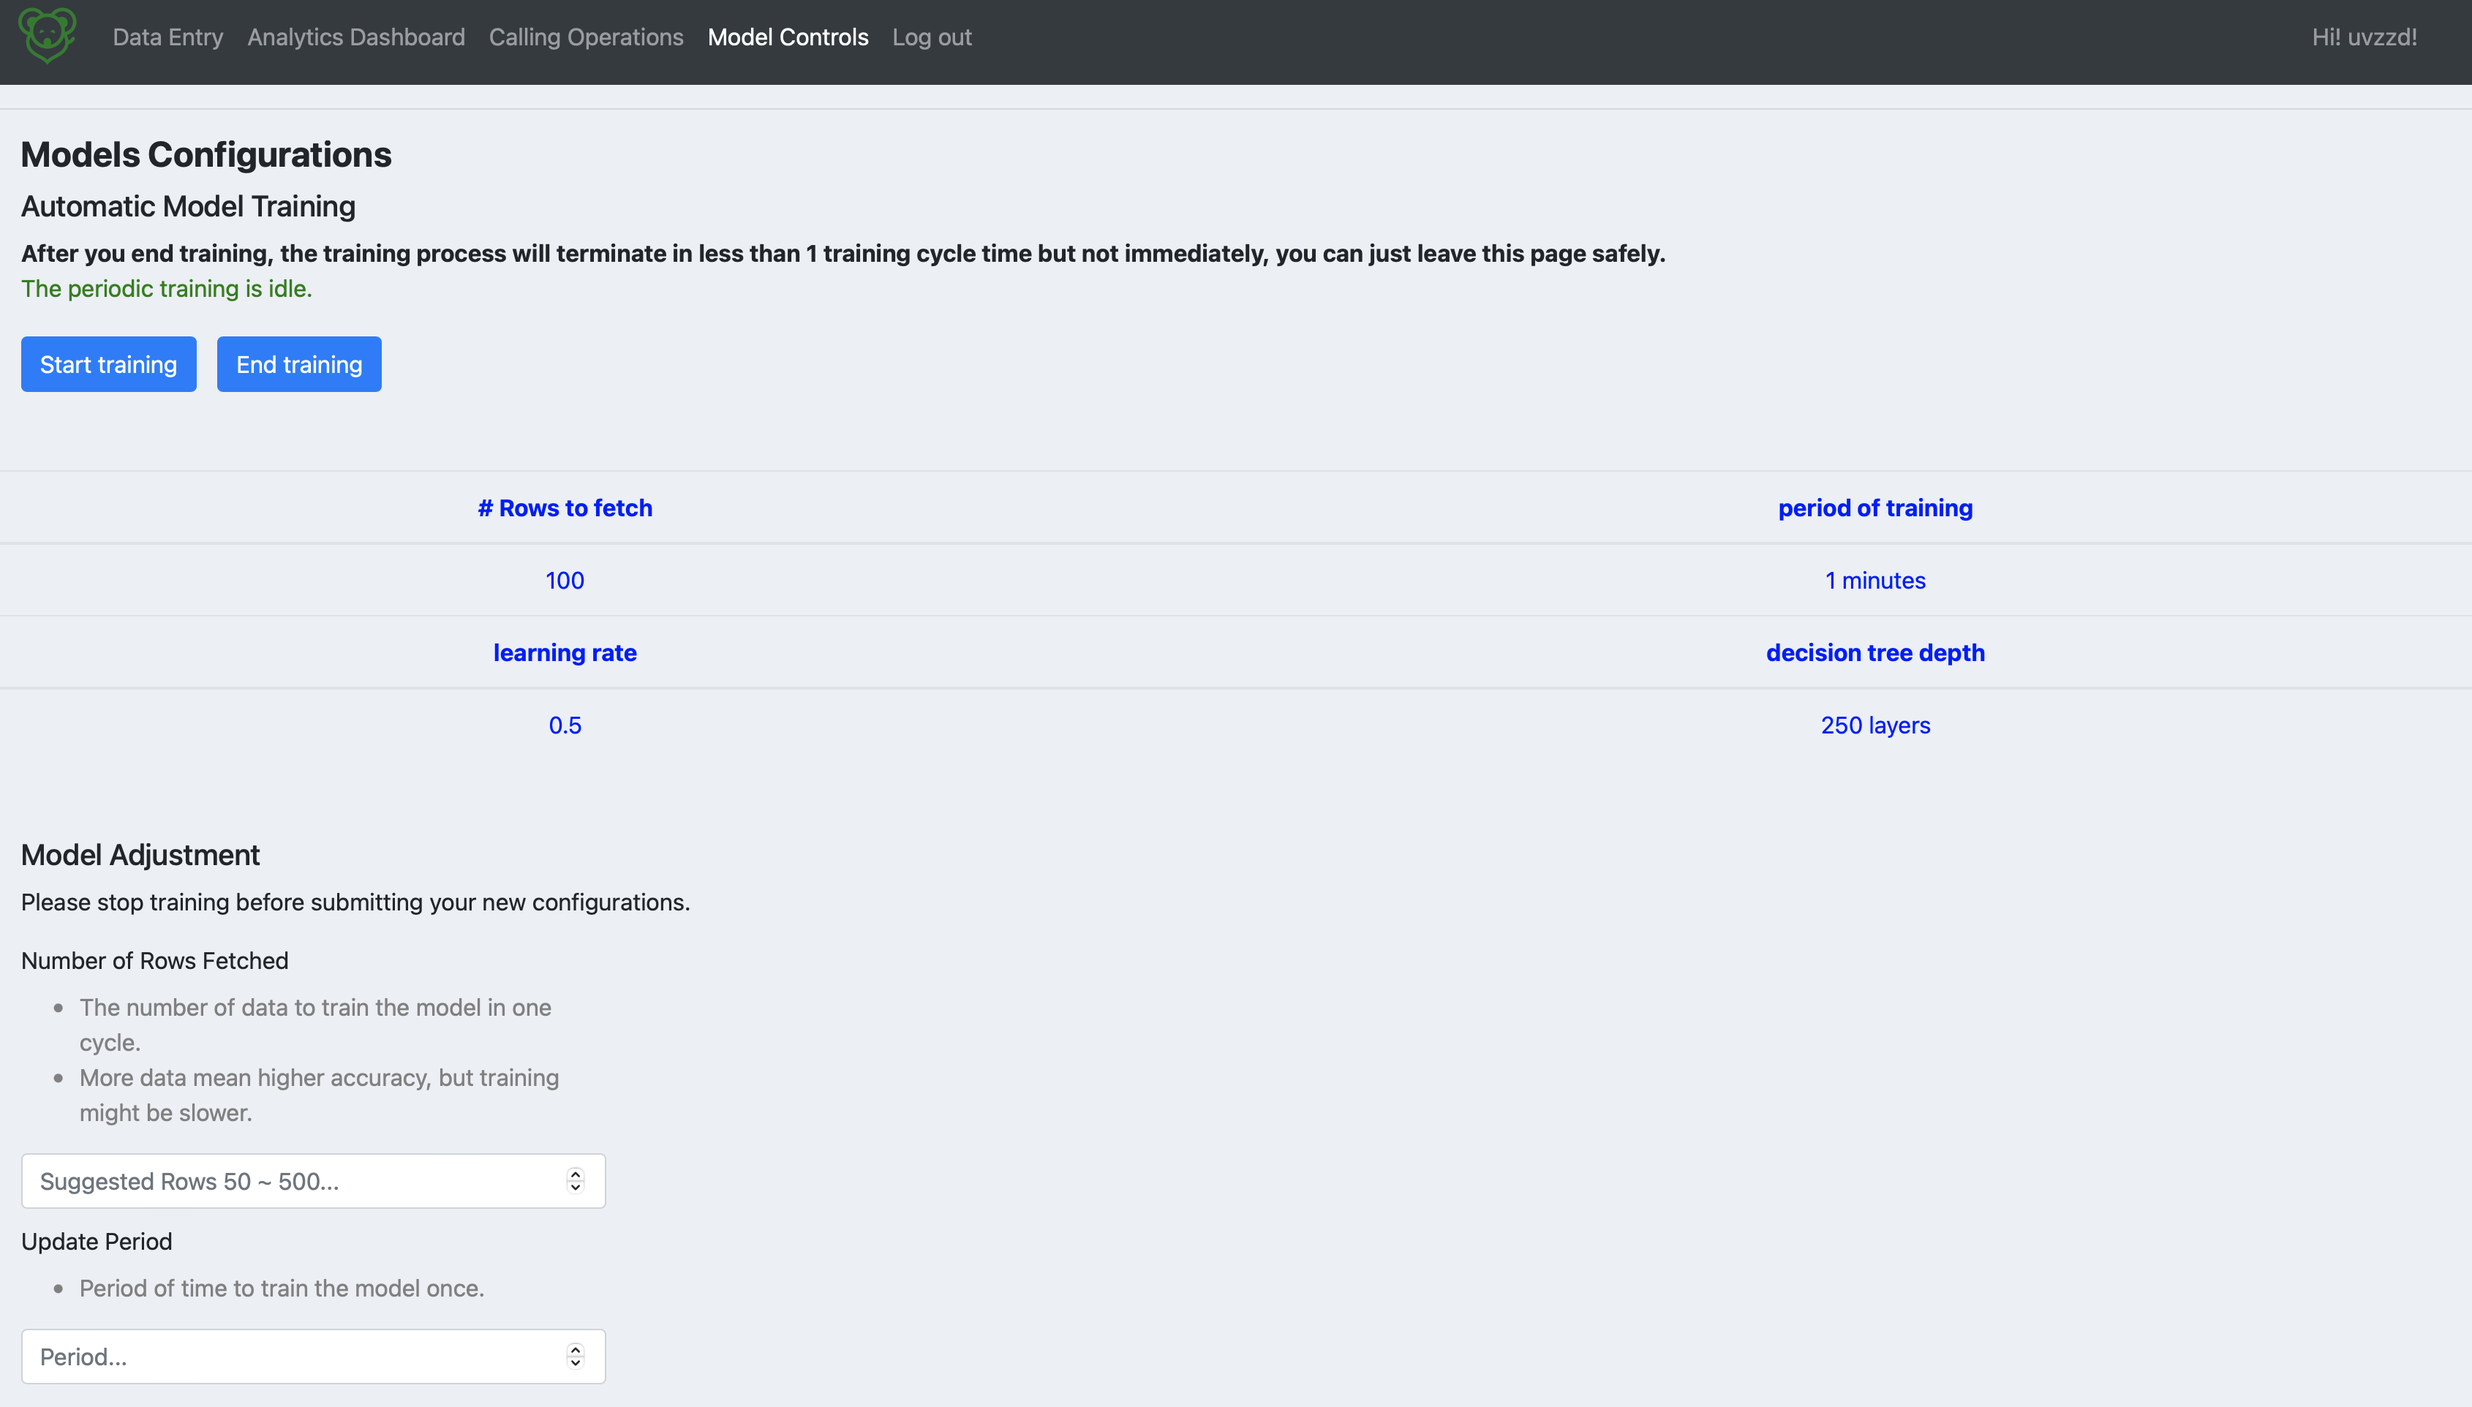
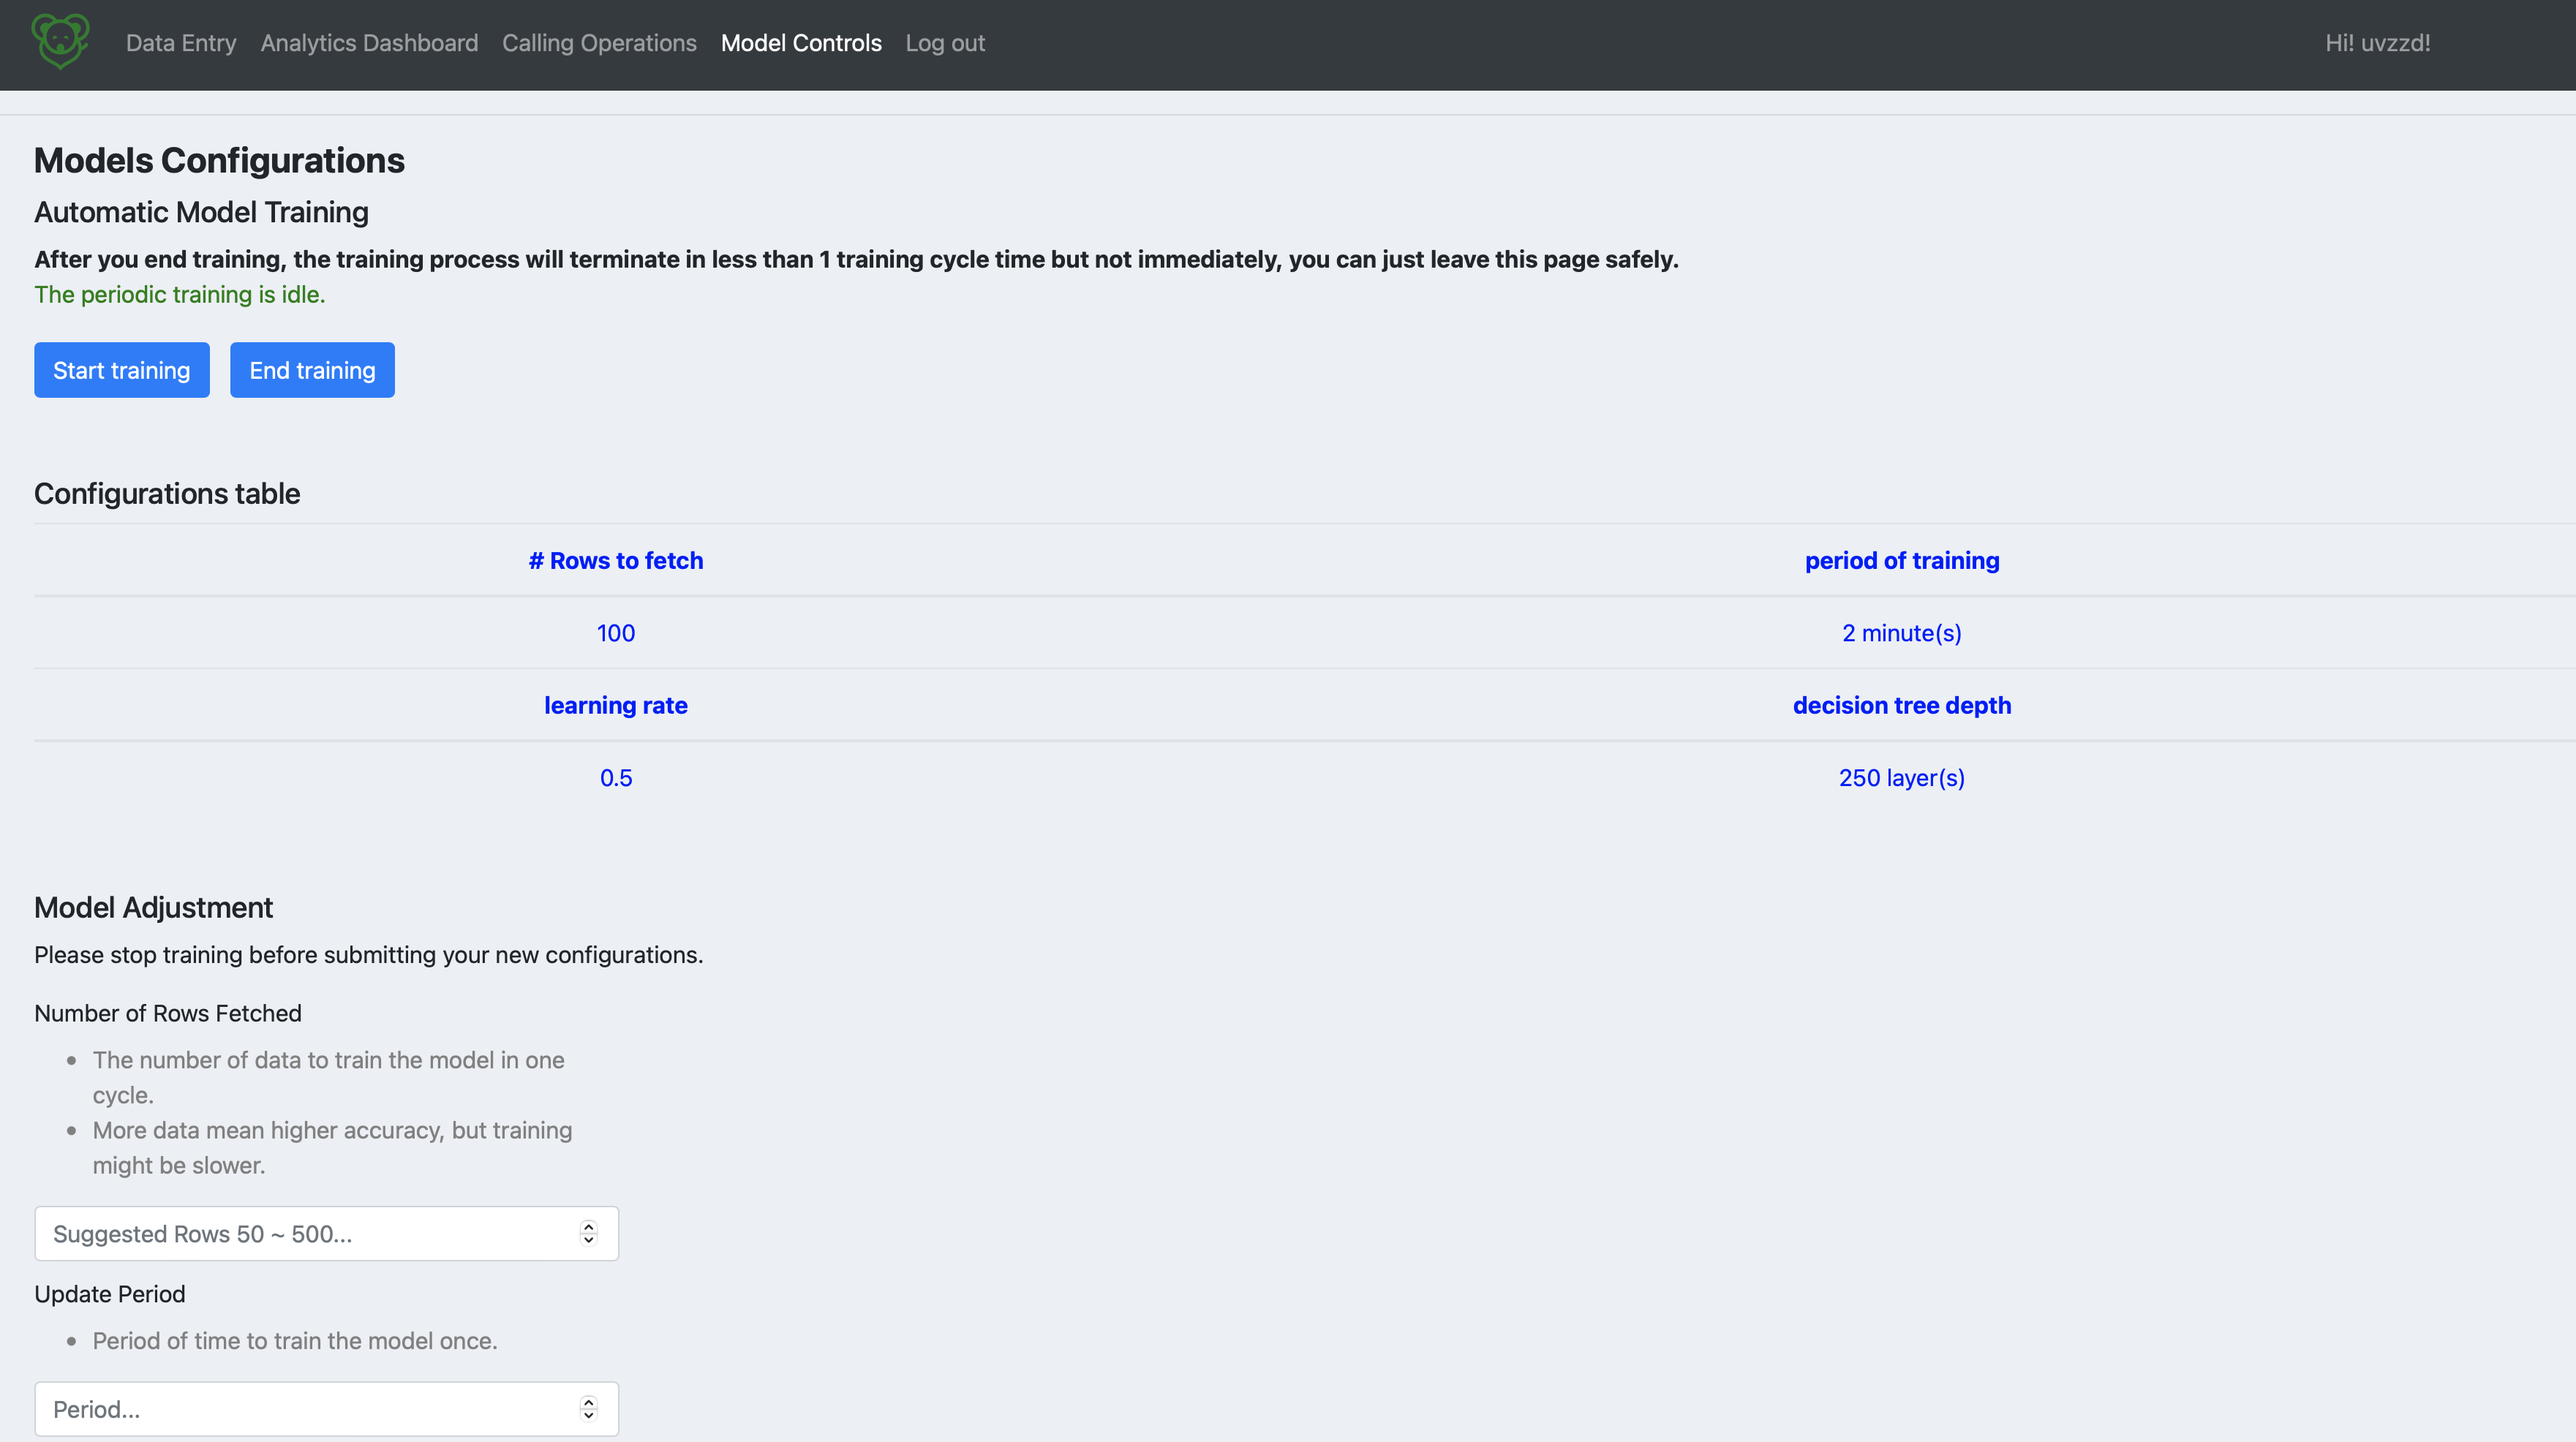
model control page

diff --git a/app/myapp/templates/model_controlls_page.html b/app/myapp/templates/model_controlls_page.html
@@ -38,7 +38,8 @@
                 </button>
             </div>
         </div>
-        <div>
+        <div style="margin-top: 10px; margin-left: 25pt; margin-bottom: 40pt;" class="config_board">
+            <h5>Configurations table</h5>
             <table class="table" style="color: blue; text-align: center; margin-bottom: 40pt;">
                 <thead>
                     <tr>
@@ -49,7 +50,7 @@
 
                 <tbody>
                     <td>{{ numFetchRows }}</td>
-                    <td>{{ period }} minutes</td>
+                    <td>{{ period }} minute(s)</td>
                 </tbody>
 
                 <thead>
@@ -59,7 +60,7 @@
 
                 <tbody>
                     <td>{{ eta }}</td>
-                    <td>{{ max_depth }} layers</td>
+                    <td>{{ max_depth }} layer(s)</td>
                 </tbody>
 
             </table>
